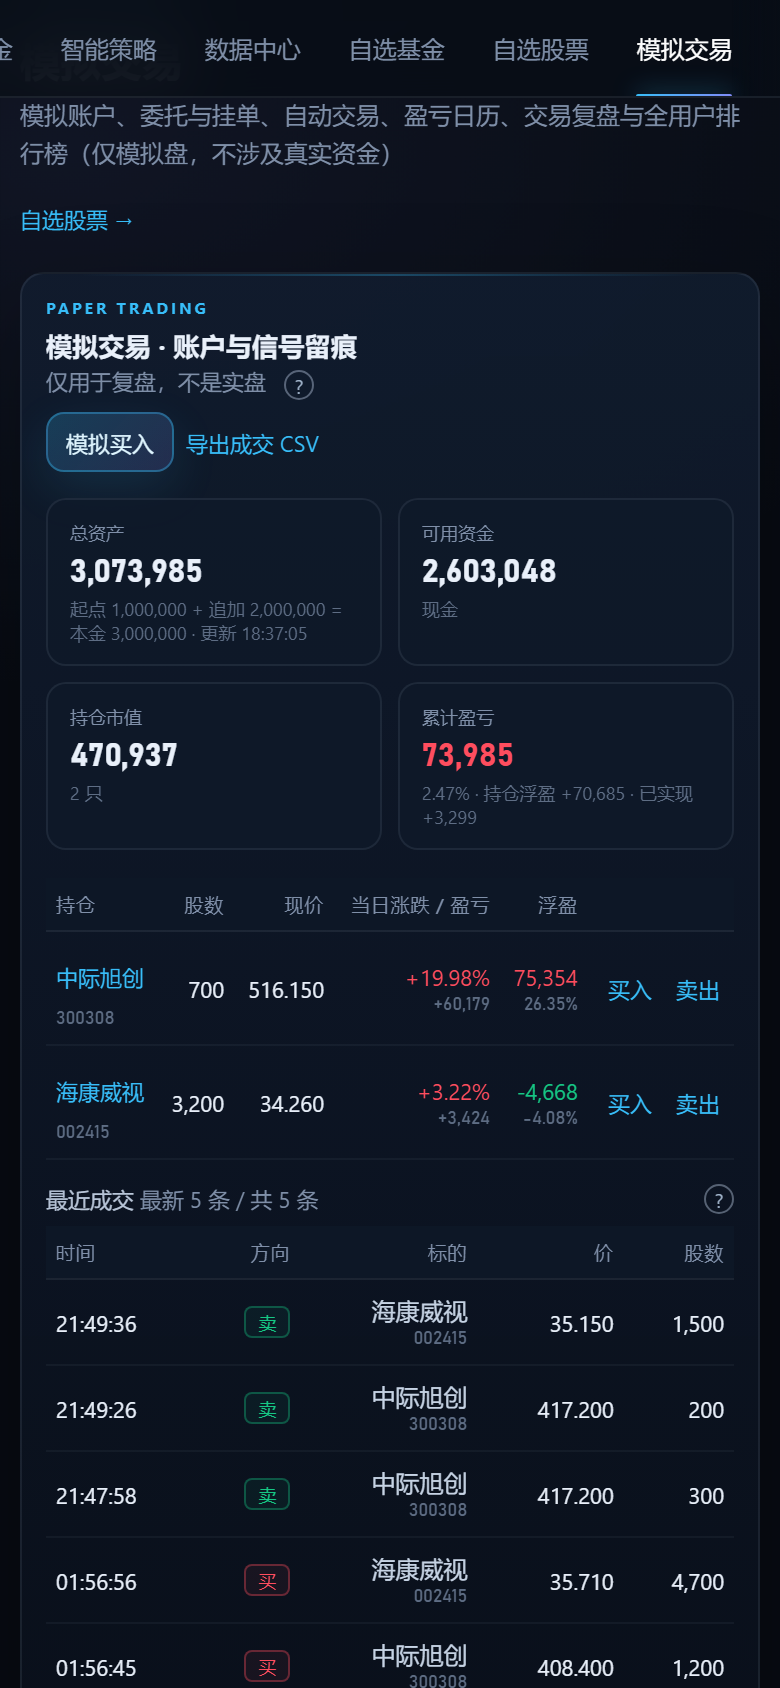
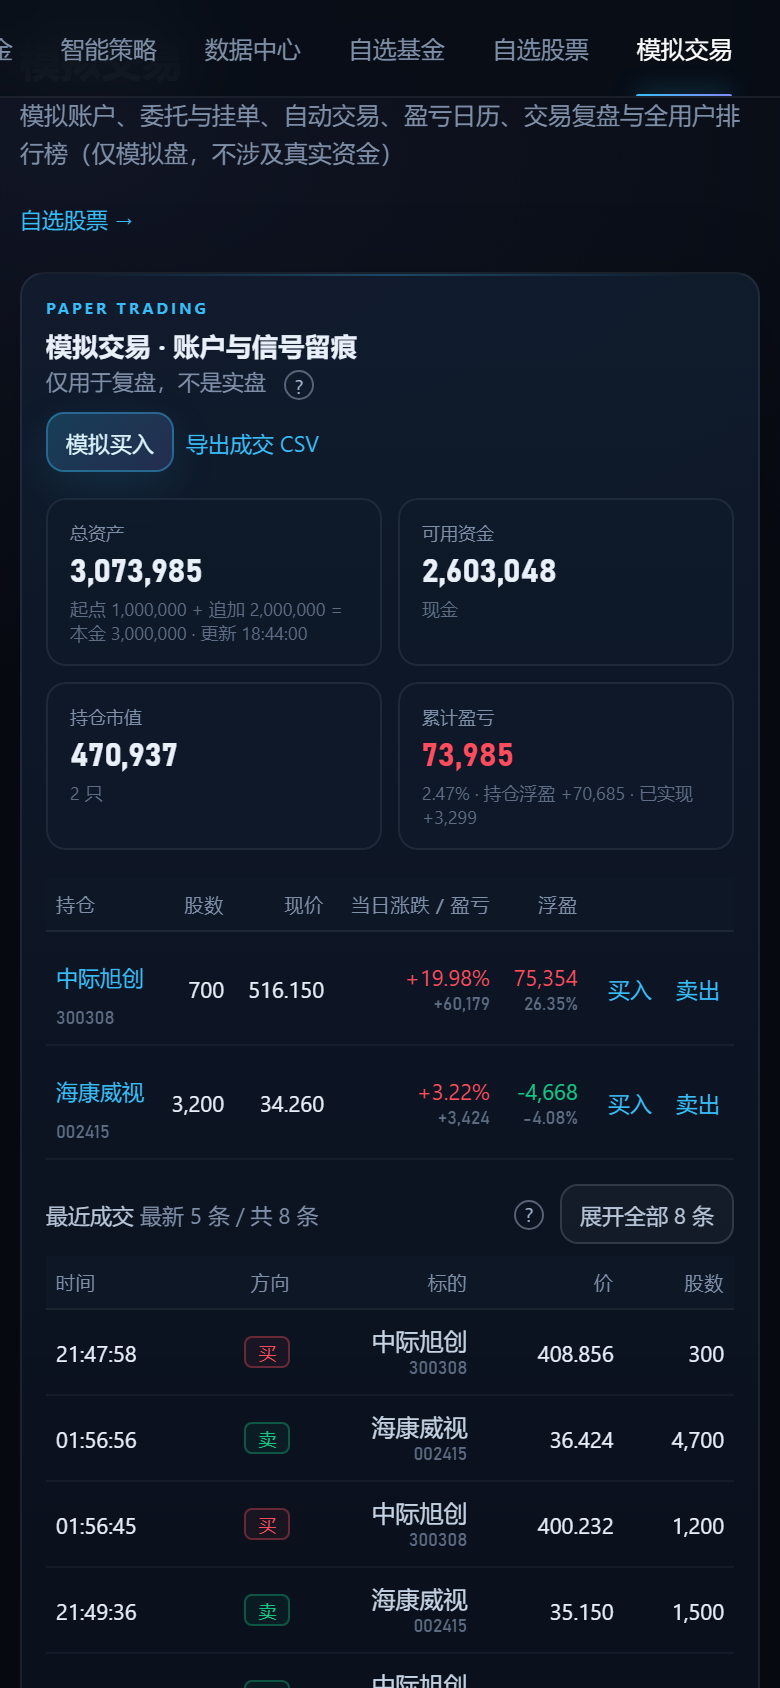
feat(v2.14.0): 7天免登录 SQLite 修复、持仓四周期图表+买卖点、成交折叠、排行榜周期收益手机可见、自选股直接买入、客户端移除重置、说明?图标与手机端适配

diff --git a/public/js/app.js b/public/js/app.js
@@ -357,6 +357,15 @@ function closeOverlay() {
   // 叠加层：只关最上面那层，下面那层（个股详情等）继续留着
   const layer = topLayer();
   if (layer) {
+    // v2.14.0：移除持仓详情叠层前释放 ECharts 实例，避免每次开合都留一份挂在已删除 DOM 上的实例
+    try {
+      if (typeof window !== 'undefined' && window.echarts && window.echarts.getInstanceByDom) {
+        layer.querySelectorAll('.paper-holding-chart').forEach((el) => {
+          const inst = window.echarts.getInstanceByDom(el);
+          if (inst && typeof inst.dispose === 'function') inst.dispose();
+        });
+      }
+    } catch { /* 释放失败不影响关闭 */ }
     layer.remove();
     // v2.14.0：叠层下单弹窗关闭后清掉临时标的；持仓详情关闭后清掉详情状态
     if (!root.querySelector('#paperForm')) state.paperTrade = null;
@@ -4905,6 +4914,18 @@ function refreshPaperHoldingHeader() {
   if (sellBtn) sellBtn.disabled = !paperHoldingPosition(h.secid);
 }
 
+/** 清空图表容器前先 dispose 旧 ECharts 实例：只清 innerHTML 会让实例挂在已消失的 canvas 上，
+ *  下一次 setOption 找不到 DOM，表现为一直停在「正在加载图表…」（v2.14.0 修）。 */
+function resetPaperHoldingChart(box, text) {
+  if (!box) return;
+  try {
+    const inst = typeof window !== 'undefined' && window.echarts && window.echarts.getInstanceByDom
+      ? window.echarts.getInstanceByDom(box)
+      : null;
+    if (inst && typeof inst.dispose === 'function') inst.dispose();
+  } catch { /* 实例已释放等情况忽略 */ }
+  box.innerHTML = text;
+}
 async function renderPaperHoldingChart() {
   const h = state.paperHolding;
   const box = $('#paperHoldingChart');
@@ -4912,7 +4933,7 @@ async function renderPaperHoldingChart() {
   const tab = PAPER_HOLDING_TABS.some((x) => x.key === state.paperHoldingTab) ? state.paperHoldingTab : 'minute';
   const noteEl = $('#paperHoldingChartNote');
   if (noteEl) noteEl.textContent = '';
-  box.innerHTML = '<div class="empty small">正在加载图表…</div>';
+  resetPaperHoldingChart(box, '<div class="empty small">正在加载图表…</div>');
   try {
     if (tab === 'minute') {
       const todayKey = shanghaiTodayKey();

diff --git a/public/js/charts.js b/public/js/charts.js
@@ -169,6 +169,9 @@ export function candleChart(el, kline, options = {}) {
   const zoomState = options.zoomStartValue && options.zoomEndValue
     ? { startValue: options.zoomStartValue, endValue: options.zoomEndValue }
     : { start: options.zoomStart ?? 30, end: options.zoomEnd ?? 100 };
+  // v2.14.0：手机弹窗里的 K 线高度只有 ~260px，量能副图高度 ~30px；
+  // 默认 5 条刻度会叠在一起，窄高度改成 2 条。
+  const compactHeight = (Number(el.clientHeight) || 400) < 340;
 
   /*
    * 副图指标：macd / kdj / boll / none（默认 macd）。
@@ -358,6 +361,7 @@ export function candleChart(el, kline, options = {}) {
       if (i === volIndex) {
         return {
           ...axis,
+          splitNumber: compactHeight ? 2 : 3,
           axisLabel: {
             color: C.muted,
             fontSize: 8,
